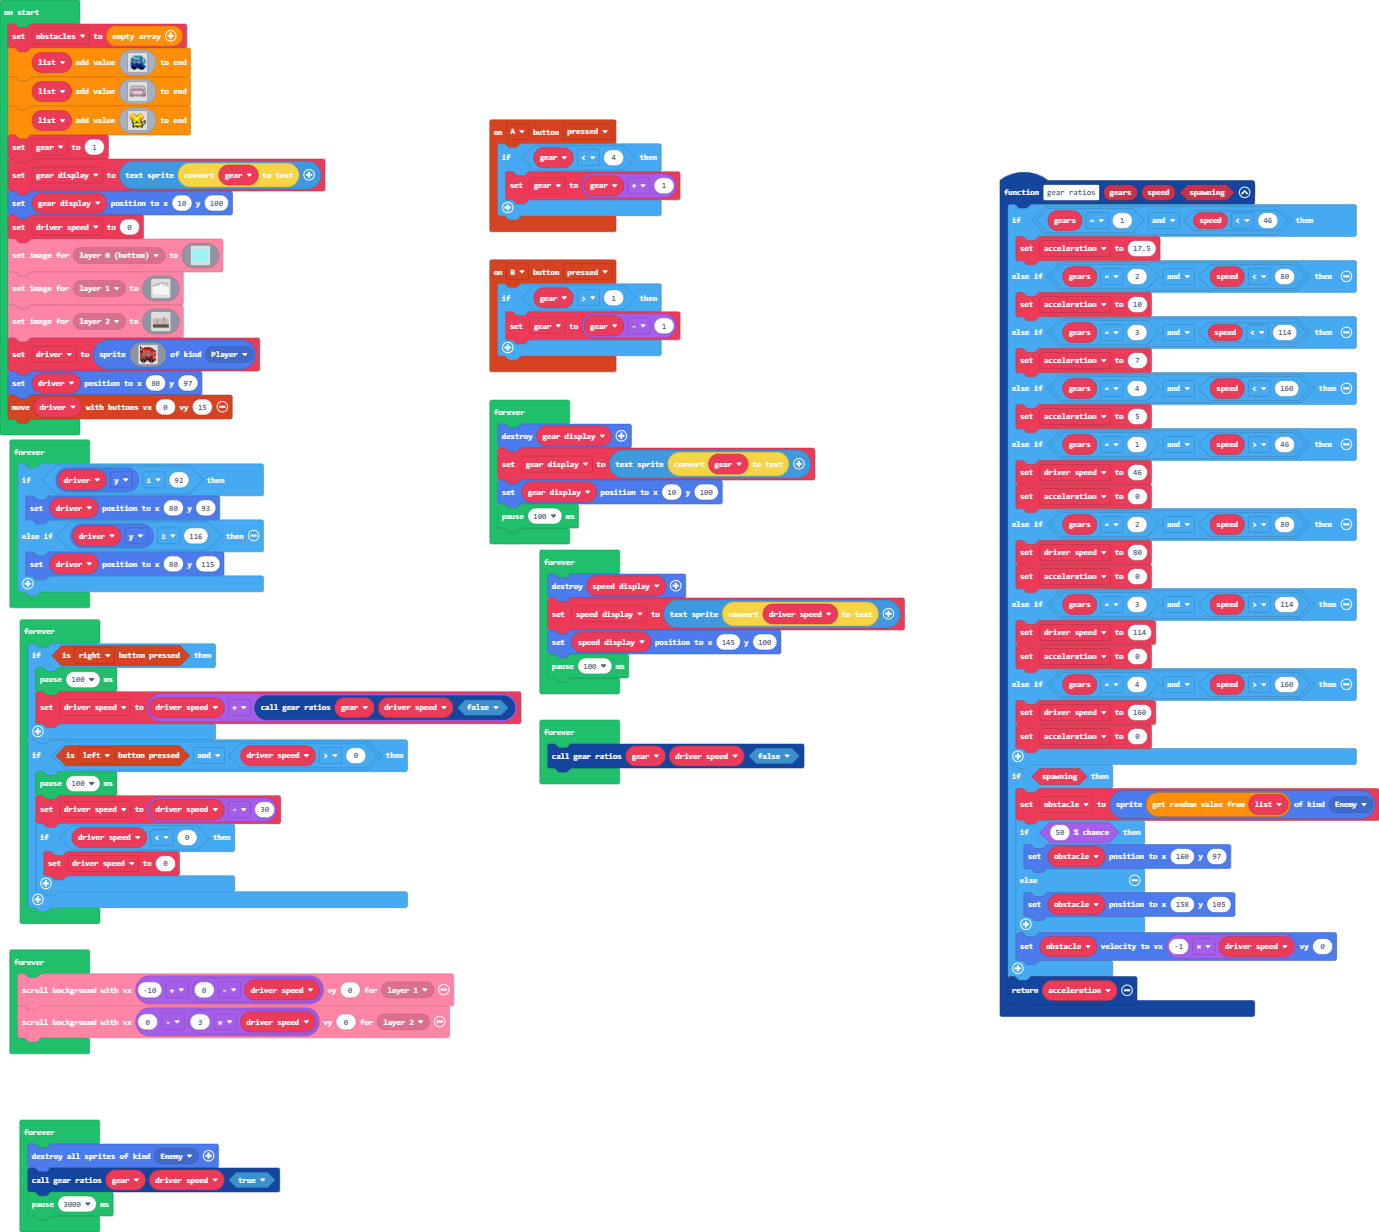
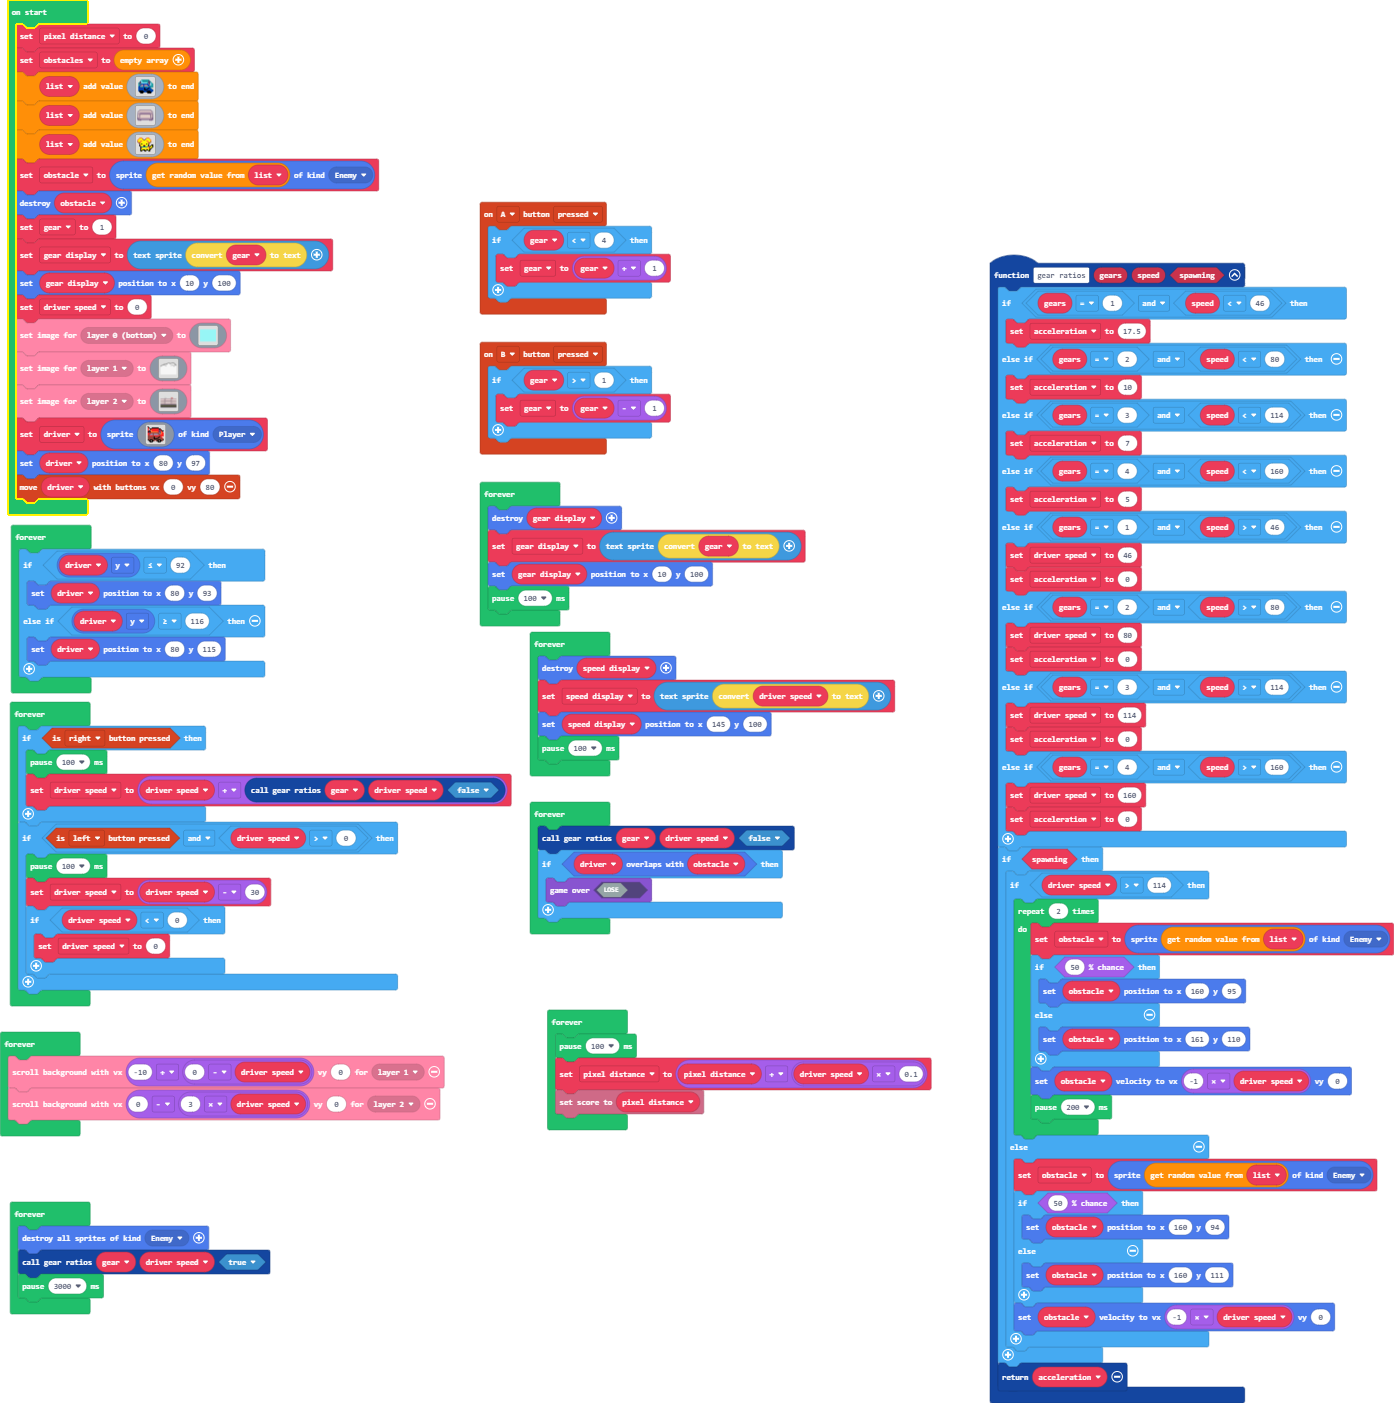
Update main.blocks, main.ts

diff --git a/main.ts b/main.ts
@@ -24,13 +24,26 @@ function gear_ratios (gears: number, speed: number, spawning: boolean) {
         acceleration = 0
     }
     if (spawning) {
-        obstacle = sprites.create(list._pickRandom(), SpriteKind.Enemy)
-        if (Math.percentChance(50)) {
-            obstacle.setPosition(160, 97)
+        if (driver_speed > 114) {
+            for (let index = 0; index < 2; index++) {
+                obstacle = sprites.create(list._pickRandom(), SpriteKind.Enemy)
+                if (Math.percentChance(50)) {
+                    obstacle.setPosition(160, 95)
+                } else {
+                    obstacle.setPosition(161, 110)
+                }
+                obstacle.setVelocity(-1 * driver_speed, 0)
+                pause(200)
+            }
         } else {
-            obstacle.setPosition(158, 105)
+            obstacle = sprites.create(list._pickRandom(), SpriteKind.Enemy)
+            if (Math.percentChance(50)) {
+                obstacle.setPosition(160, 94)
+            } else {
+                obstacle.setPosition(160, 111)
+            }
+            obstacle.setVelocity(-1 * driver_speed, 0)
         }
-        obstacle.setVelocity(-1 * driver_speed, 0)
     }
     return acceleration
 }
@@ -45,11 +58,12 @@ controller.A.onEvent(ControllerButtonEvent.Pressed, function () {
     }
 })
 let speed_display: TextSprite = null
-let obstacle: Sprite = null
 let acceleration = 0
 let driver_speed = 0
 let gear = 0
+let obstacle: Sprite = null
 let list: Image[] = []
+let pixel_distance = 0
 let obstacles: number[] = []
 list.push(img`
     . . . . . . . . . . . . . . . . 
@@ -103,6 +117,8 @@ list.push(img`
     . . . f 5 f f f 5 f f 5 f . . . 
     . . . f f . . f f . . f f . . . 
     `)
+obstacle = sprites.create(list._pickRandom(), SpriteKind.Enemy)
+sprites.destroy(obstacle)
 gear = 1
 let gear_display = textsprite.create(convertToText(gear))
 gear_display.setPosition(10, 100)
@@ -354,7 +370,7 @@ scroller.setLayerImage(scroller.BackgroundLayer.Layer2, img`
     `)
 let driver = sprites.create(assets.image`race car`, SpriteKind.Player)
 driver.setPosition(80, 97)
-controller.moveSprite(driver, 0, 15)
+controller.moveSprite(driver, 0, 80)
 forever(function () {
     sprites.destroy(gear_display)
     gear_display = textsprite.create(convertToText(gear))
@@ -389,10 +405,18 @@ forever(function () {
 })
 forever(function () {
     gear_ratios(gear, driver_speed, false)
+    if (driver.overlapsWith(obstacle)) {
+        game.gameOver(false)
+    }
 })
 forever(function () {
     scroller.scrollBackgroundWithSpeed(-10 + (0 - driver_speed), 0, scroller.BackgroundLayer.Layer1)
     scroller.scrollBackgroundWithSpeed(0 - 3 * driver_speed, 0, scroller.BackgroundLayer.Layer2)
+})
+forever(function () {
+    pause(100)
+    pixel_distance = pixel_distance + driver_speed * 0.1
+    info.setScore(pixel_distance)
 })
 forever(function () {
     sprites.destroyAllSpritesOfKind(SpriteKind.Enemy)
